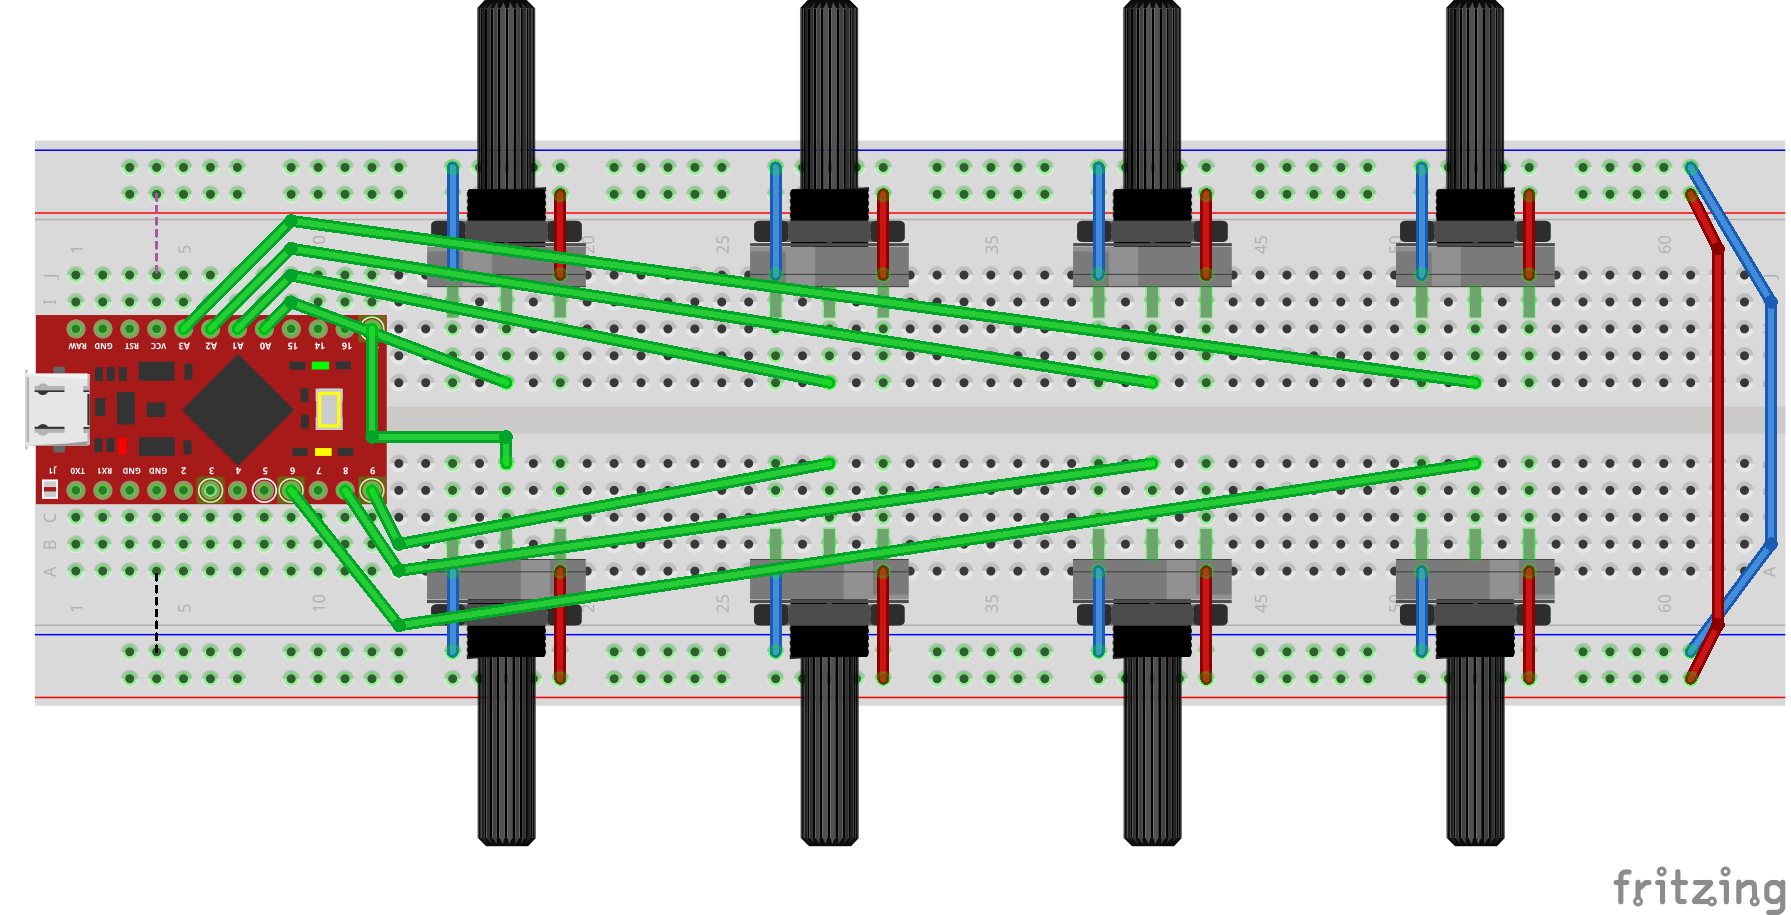
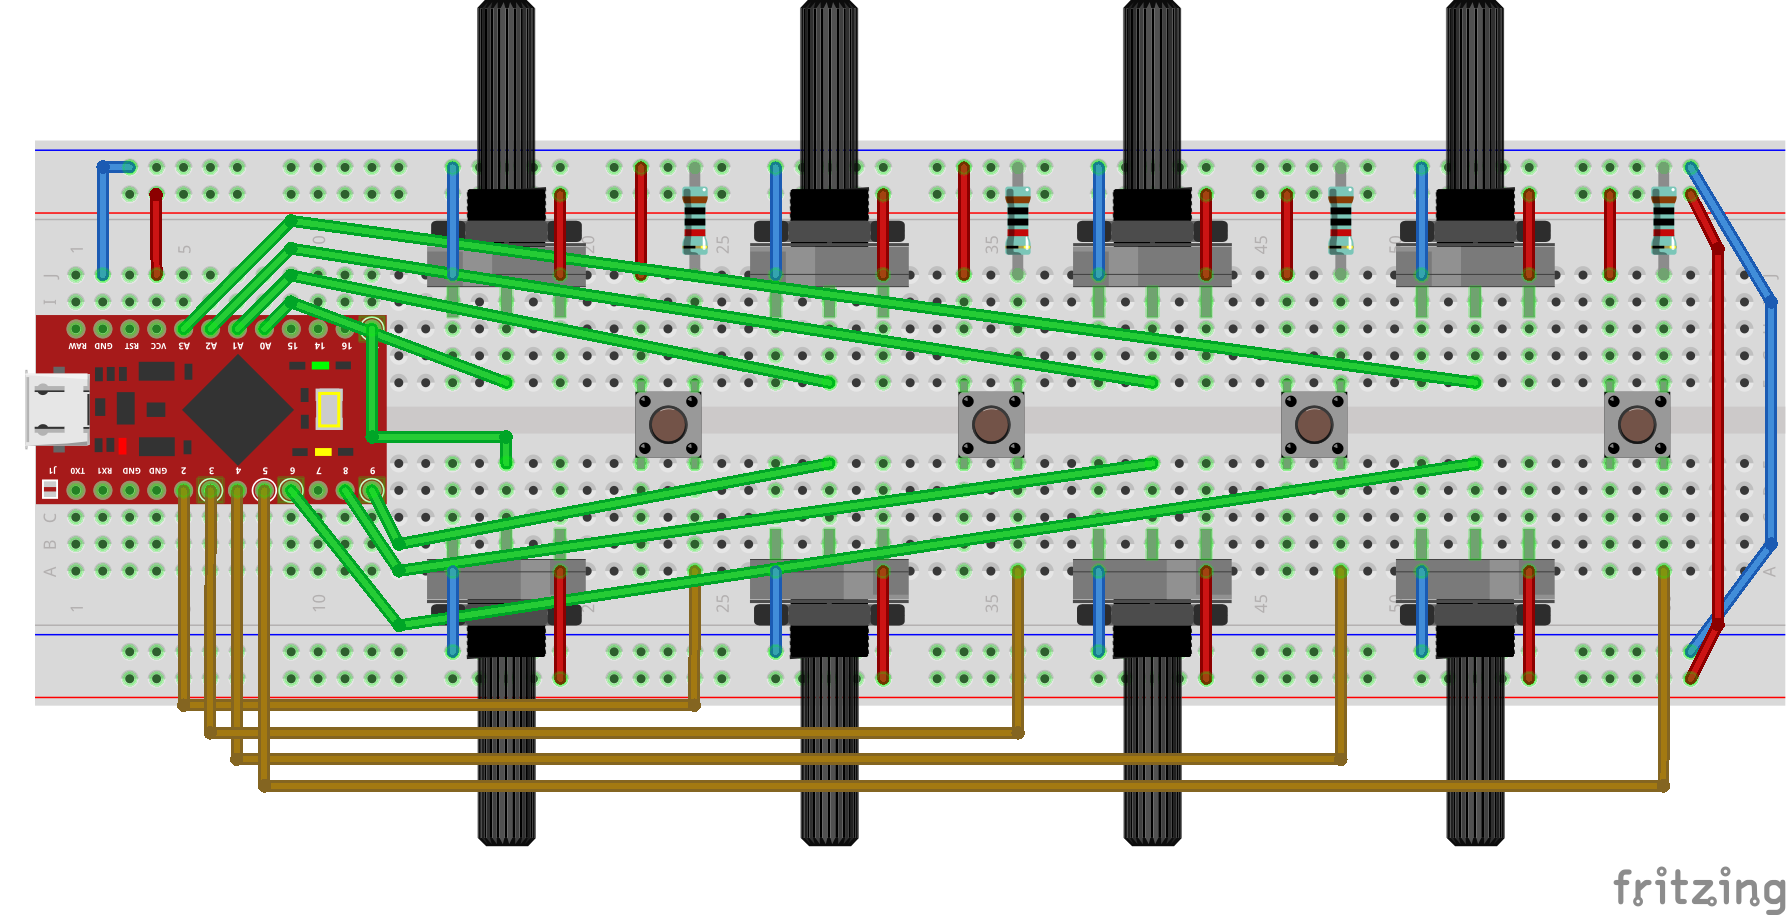
Update the doc

diff --git a/README.md b/README.md
@@ -1,6 +1,13 @@
 # Arduino ATmega32u4 MIDI Octopot
 
-Arduino SysEx programmable 8 Knobs MIDI Controller inspired by [Crius Octapot Midi Controller](https://www.instructables.com/Crius-OctaPot-Midi-Controller) but using ATmega32u4 microcontroller in order to use MIDI USB.
+Arduino SysEx programmable MIDI Controller inspired by [Crius Octapot Midi Controller](https://www.instructables.com/Crius-OctaPot-Midi-Controller).
+This MIDI controller uses an ATmega32u4 microcontroller in order to use MIDI USB.
+
+This version has:
+- 8 Knobs
+- 4 Push buttons
+
+To get the simple version with only 8 Knobs, go to the [main branch](https://github.com/gwilherm/arduino-atmega32u4-midi-octopot/tree/main).
 
 ## Photo
 ![](doc/photo.jpg)
